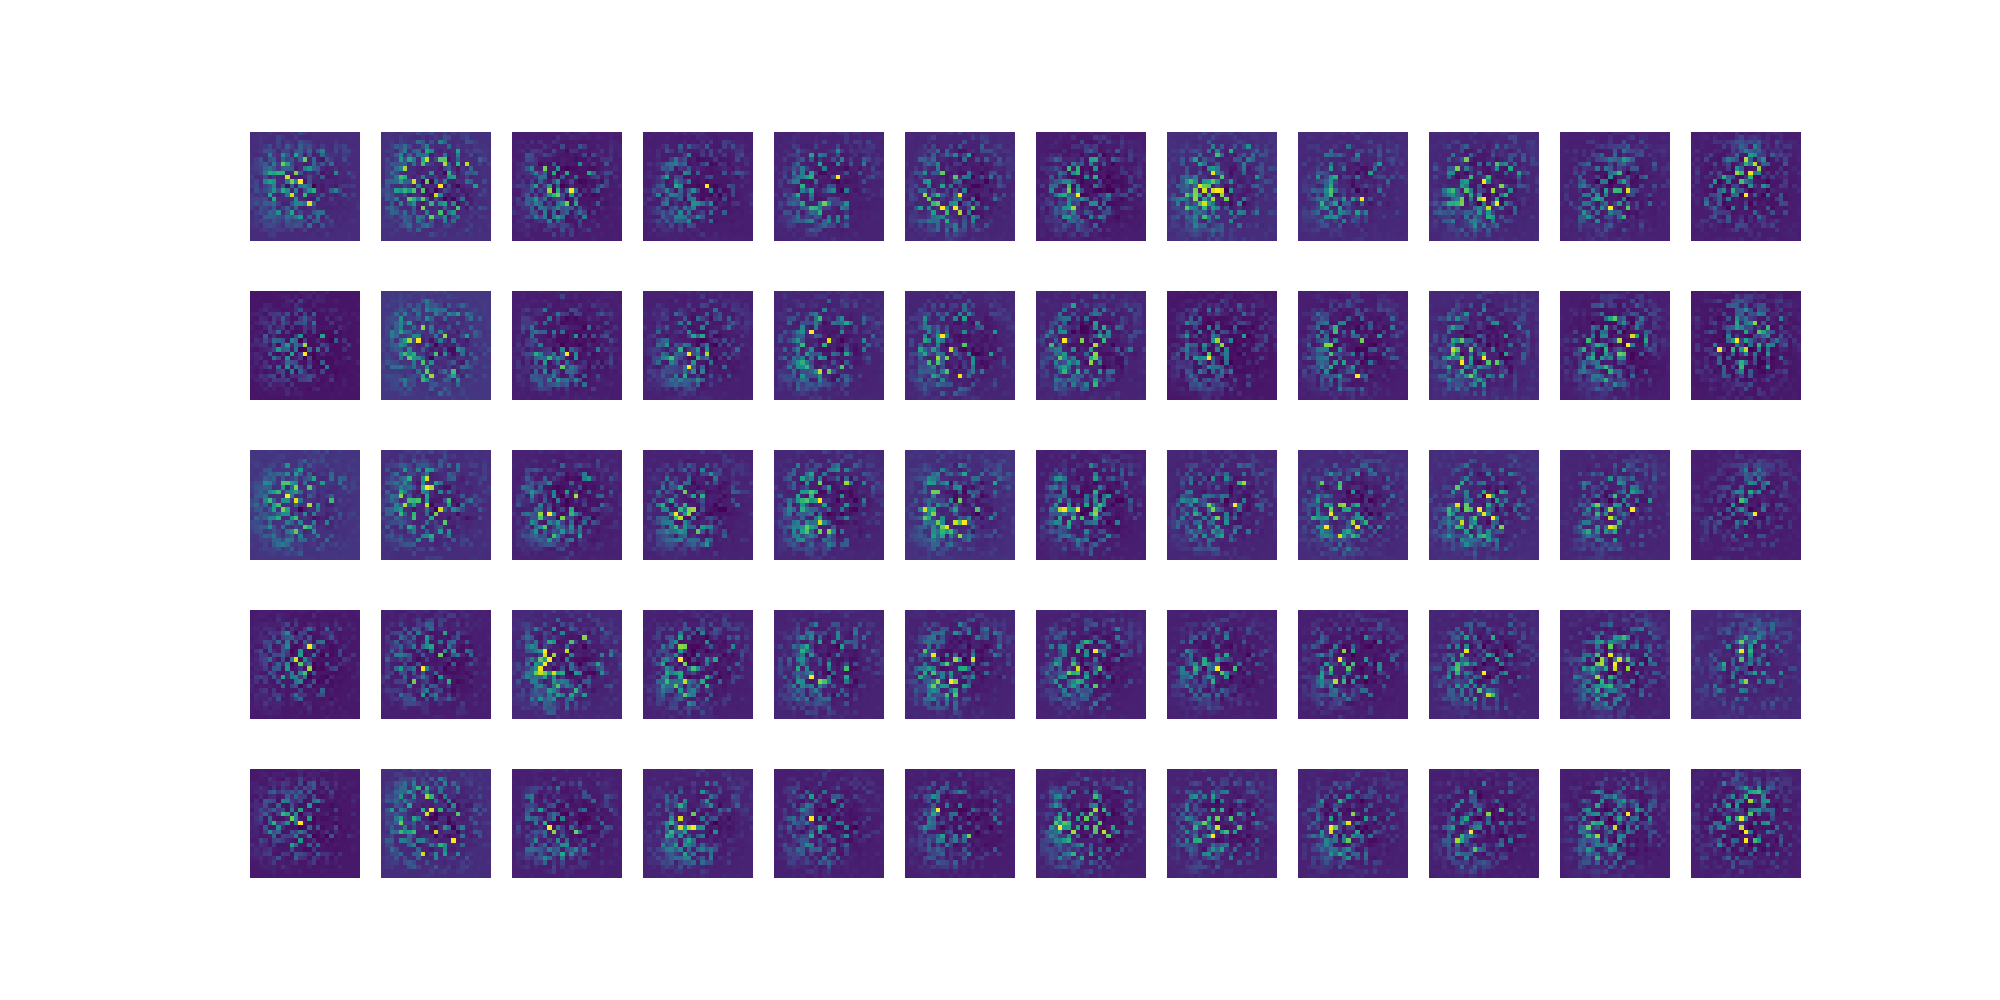
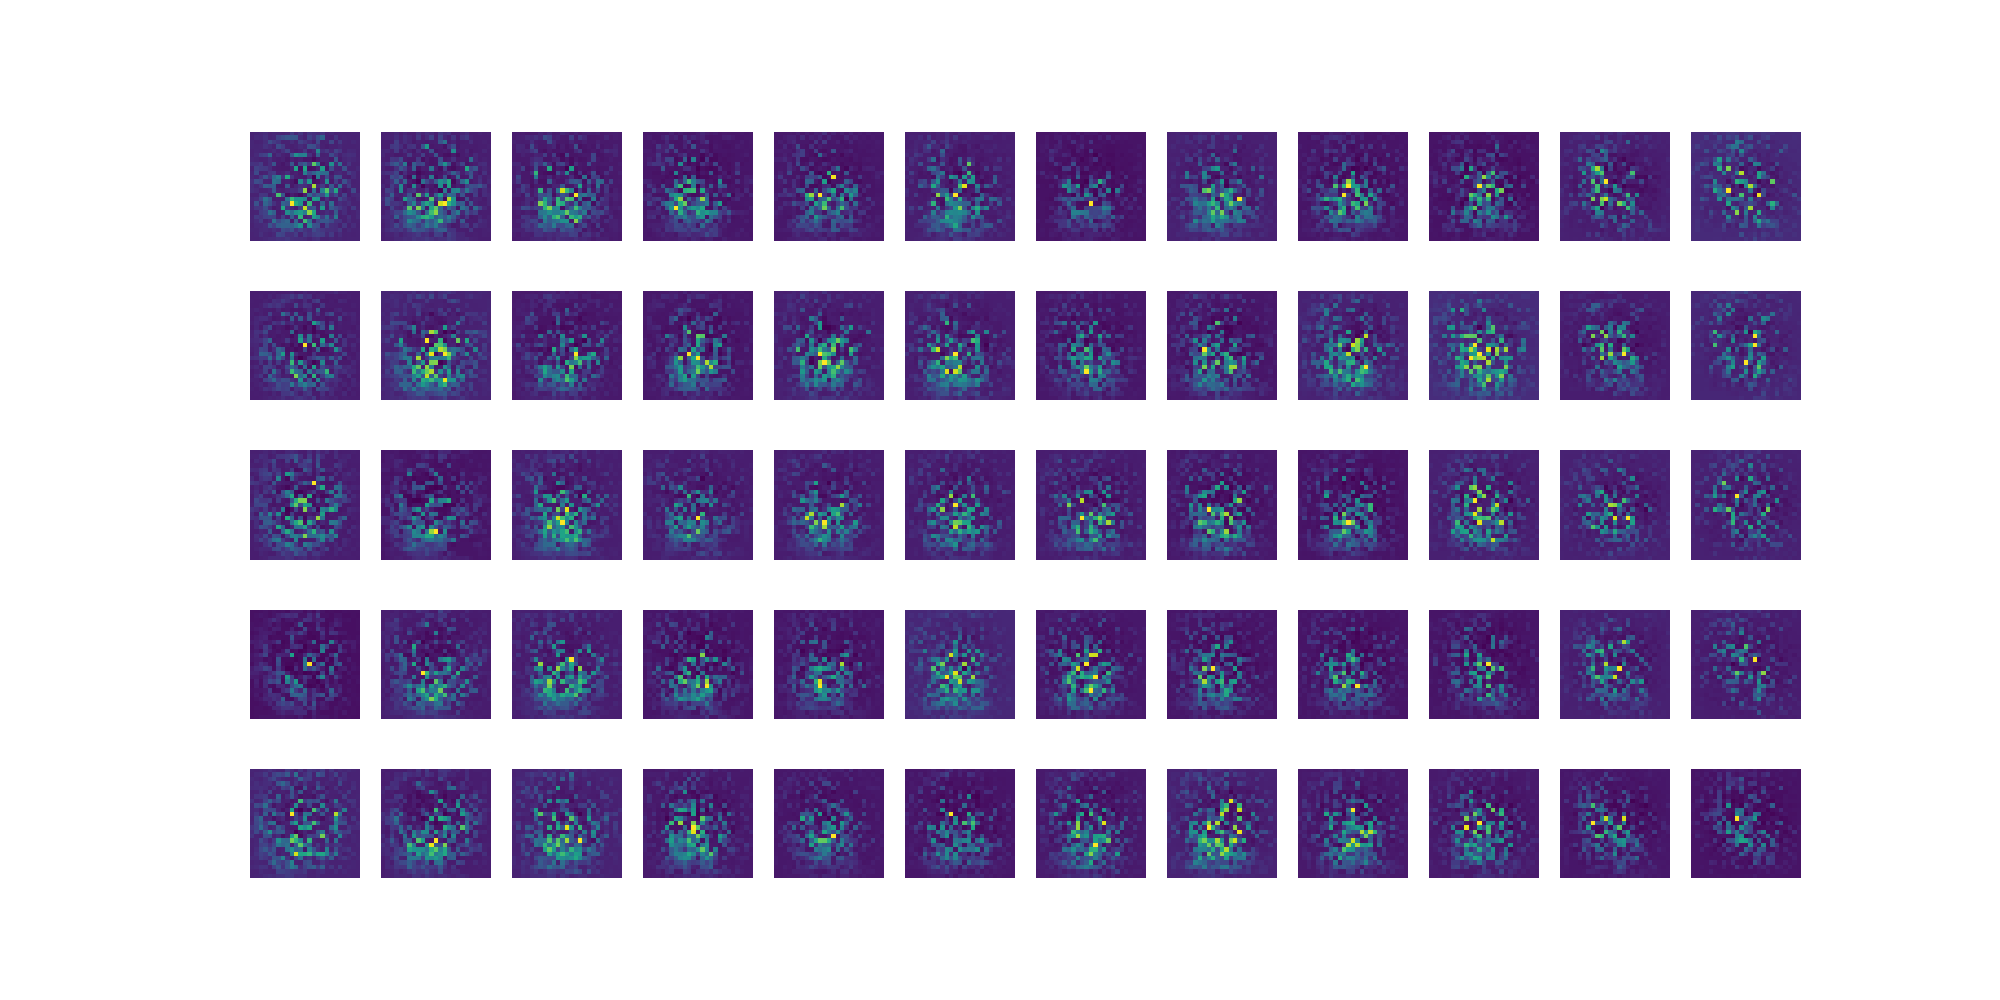
Merged to Dario's global updates, changes in generator model

diff --git a/EM_shower_simulator/make_models.py b/EM_shower_simulator/make_models.py
@@ -53,7 +53,7 @@ def make_generator_model():
     layer that creates a sort of lookup-table (vector[EMBED_DIM] of floats) that
     categorizes the labels in N_CLASSES_* classes.
     """
-    N_FILTER = 64
+    N_FILTER = 45
     EMBED_DIM = 10
     KERNEL = (2, 6, 6)
     input_shape = (3, 7, 7, N_FILTER)
